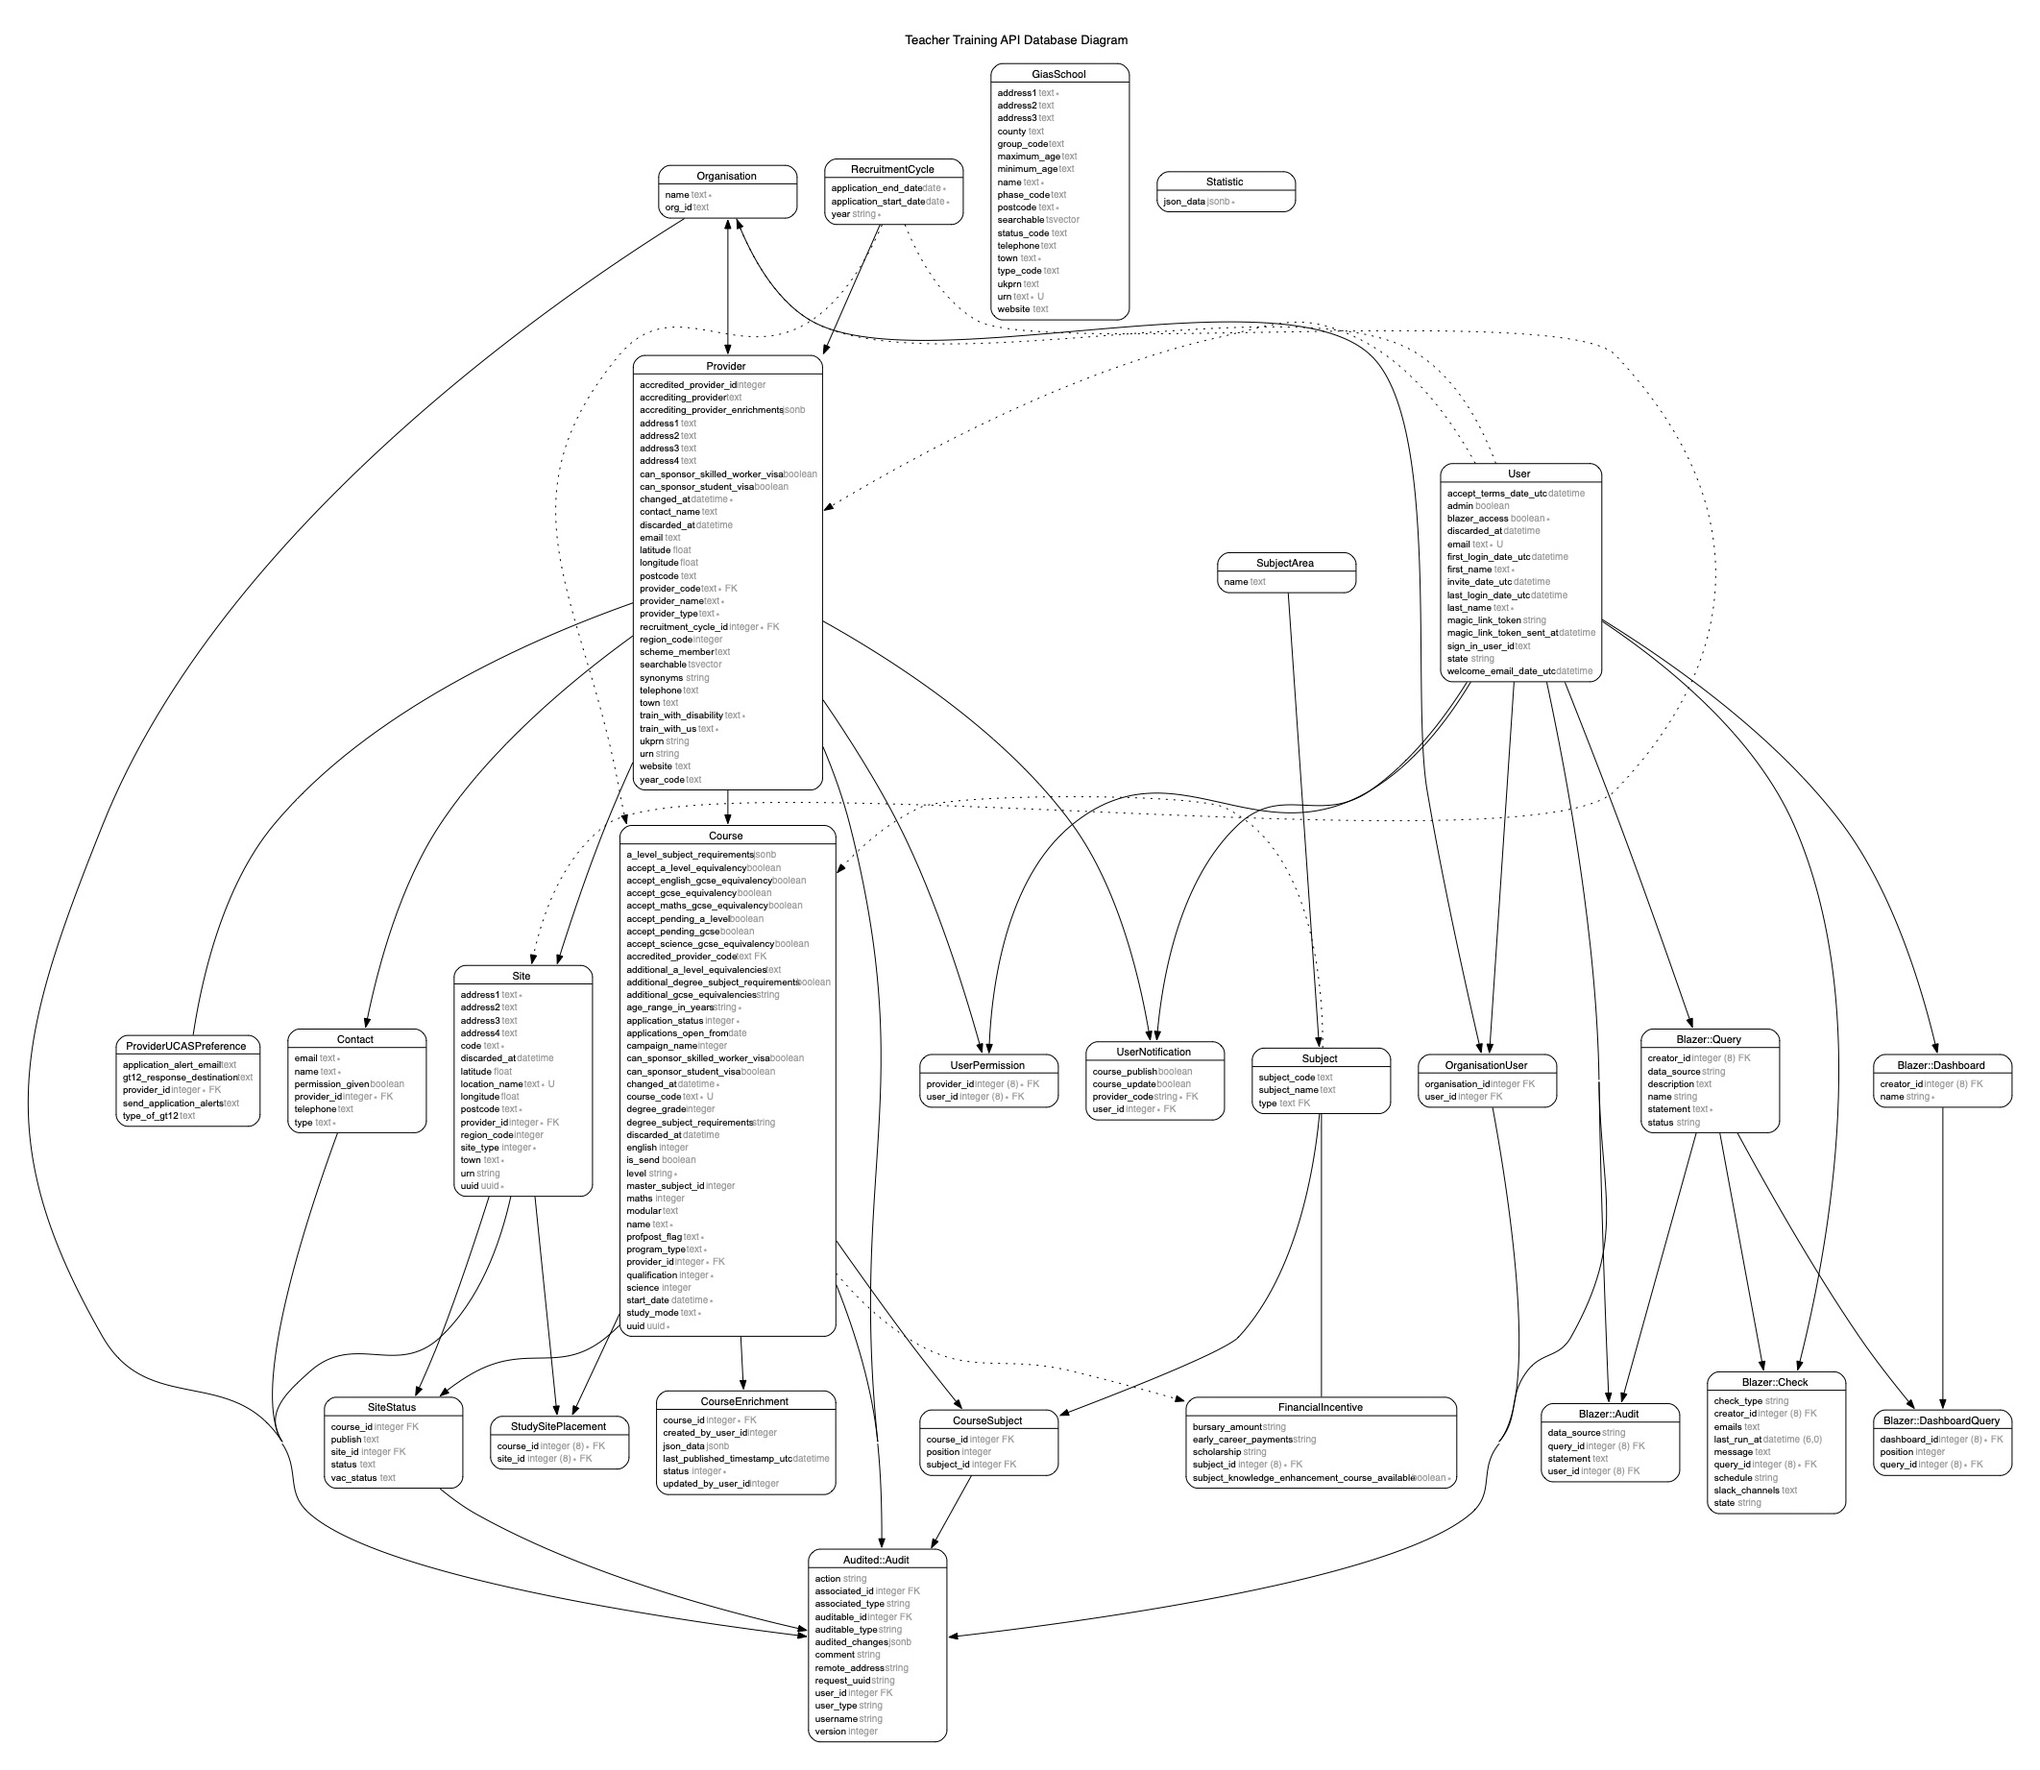
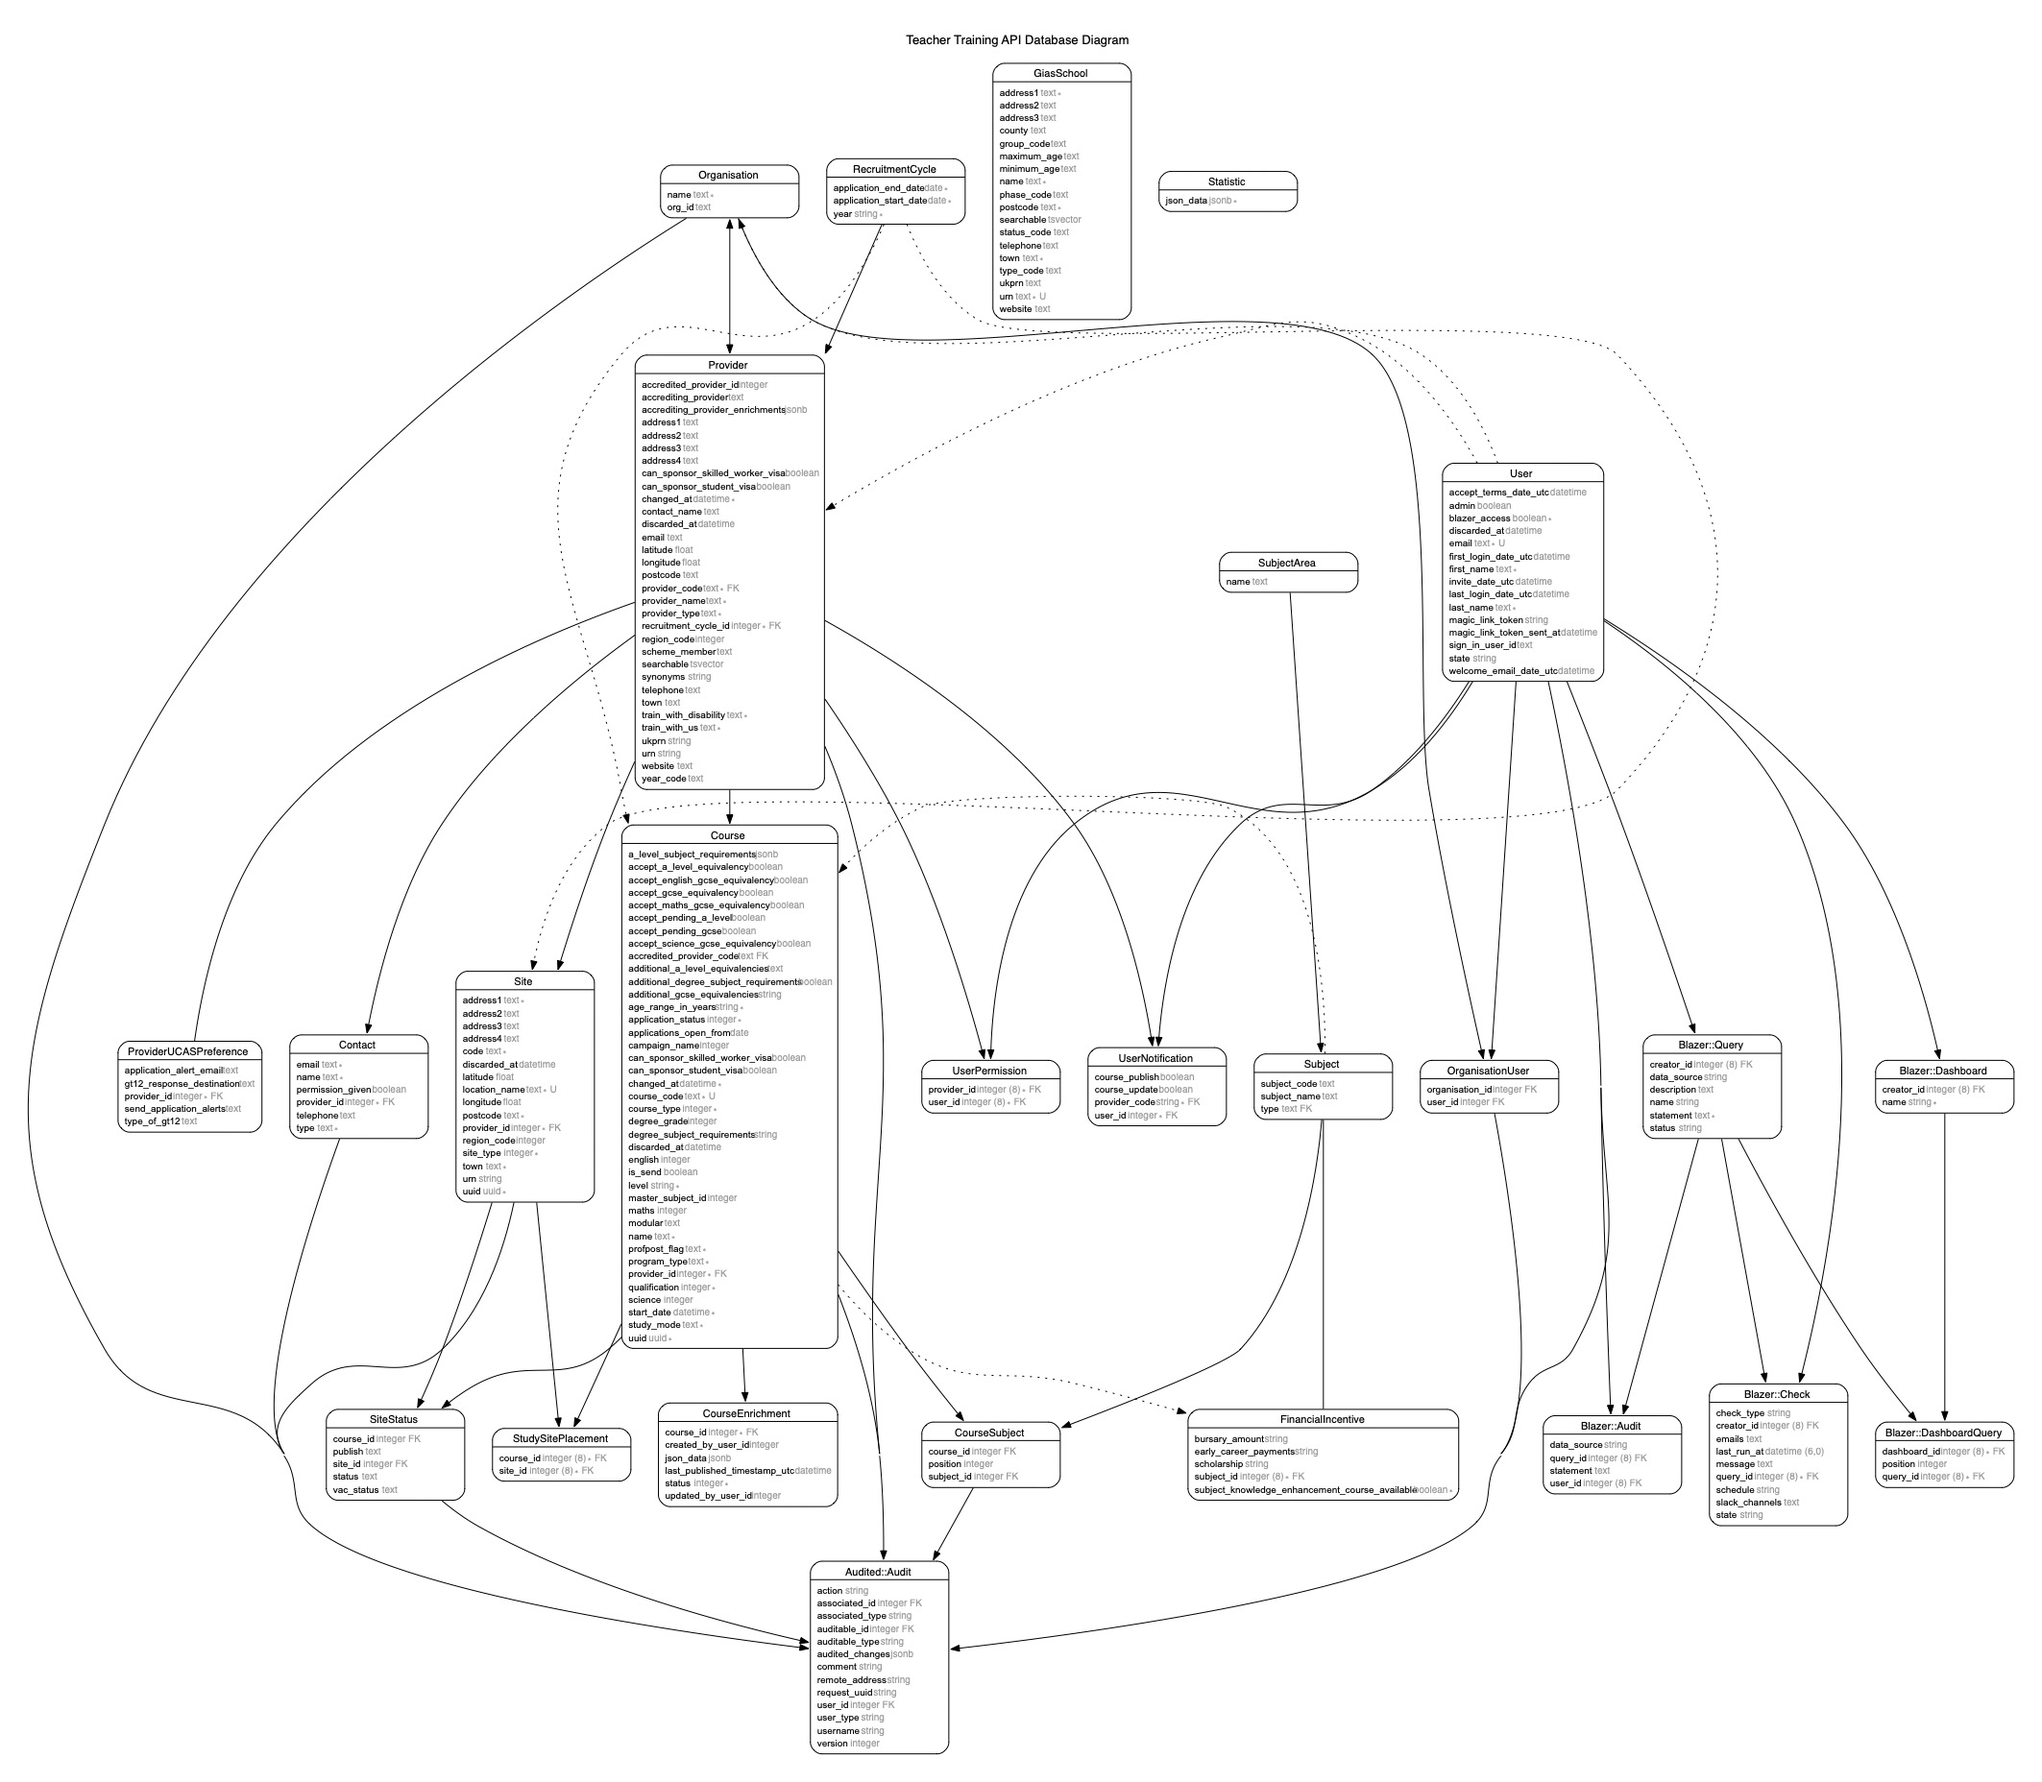
[2114] Add course_type column
- Add course_type column to course table
- Default to postgraduate
- Store as an integer
- Add enum (_prefix required because of naming clash)

diff --git a/spec/models/course_spec.rb b/spec/models/course_spec.rb
@@ -2900,6 +2900,51 @@ describe Course do
     end
   end
 
+  describe 'course_type enum' do
+    subject(:course) { create(:course) }
+
+    context 'default' do
+      it 'sets the value as postgraduate' do
+        expect(course.course_type).to eq('postgraduate')
+      end
+    end
+
+    context 'undergraduate course' do
+      it 'sets the value to undergraduate' do
+        course.type_undergraduate!
+        expect(course.reload.course_type).to eq('undergraduate')
+      end
+    end
+
+    context 'postgraduate course' do
+      it 'sets the value to postgraduate' do
+        course.type_postgraduate!
+        expect(course.reload.course_type).to eq('postgraduate')
+      end
+    end
+
+    context 'validation' do
+      it 'raises an error when setting an invalid course_type' do
+        expect { course.update!(course_type: 'invalid') }.to raise_error(ArgumentError)
+      end
+    end
+
+    context 'predicate methods' do
+      it 'returns true for postgraduate?' do
+        expect(course.type_postgraduate?).to be true
+      end
+
+      it 'returns false for undergraduate?' do
+        expect(course.type_undergraduate?).to be false
+      end
+
+      it 'returns true for undergraduate? after setting to undergraduate' do
+        course.type_undergraduate!
+        expect(course.type_undergraduate?).to be true
+      end
+    end
+  end
+
   describe '#is_primary?' do
     context 'when course is primary' do
       subject { build(:course, level: :primary) }

diff --git a/db/schema.rb b/db/schema.rb
@@ -10,7 +10,7 @@
 #
 # It's strongly recommended that you check this file into your version control system.
 
-ActiveRecord::Schema[7.1].define(version: 2024_07_08_162024) do
+ActiveRecord::Schema[7.1].define(version: 2024_07_31_175623) do
   # These are extensions that must be enabled in order to support this database
   enable_extension "btree_gin"
   enable_extension "btree_gist"
@@ -156,6 +156,7 @@ ActiveRecord::Schema[7.1].define(version: 2024_07_08_162024) do
     t.boolean "accept_pending_a_level"
     t.boolean "accept_a_level_equivalency"
     t.text "additional_a_level_equivalencies"
+    t.integer "course_type", default: 0, null: false
     t.index ["accredited_provider_code"], name: "index_course_on_accredited_provider_code"
     t.index ["application_status"], name: "index_course_on_application_status"
     t.index ["campaign_name"], name: "index_course_on_campaign_name"

diff --git a/app/models/course.rb b/app/models/course.rb
@@ -42,6 +42,11 @@ class Course < ApplicationRecord
     open: 1
   }, _prefix: :application_status
 
+  enum course_type: {
+    postgraduate: 0,
+    undergraduate: 1
+  }, _prefix: :type
+
   enum program_type: {
     higher_education_programme: 'HE',
     higher_education_salaried_programme: 'HES',

diff --git a/db/migrate/20240731175623_add_course_type_to_courses.rb b/db/migrate/20240731175623_add_course_type_to_courses.rb
@@ -1,0 +1,7 @@
+# frozen_string_literal: true
+
+class AddCourseTypeToCourses < ActiveRecord::Migration[7.1]
+  def change
+    add_column :course, :course_type, :integer, default: 0, null: false
+  end
+end
